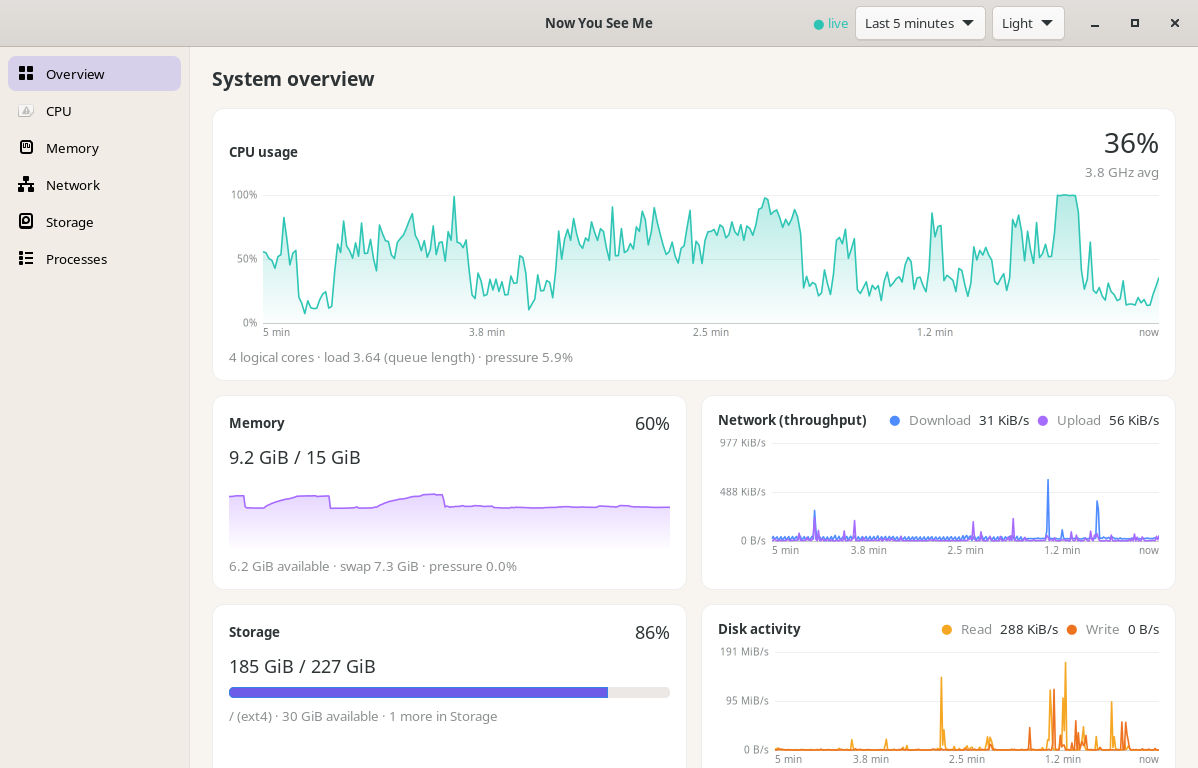
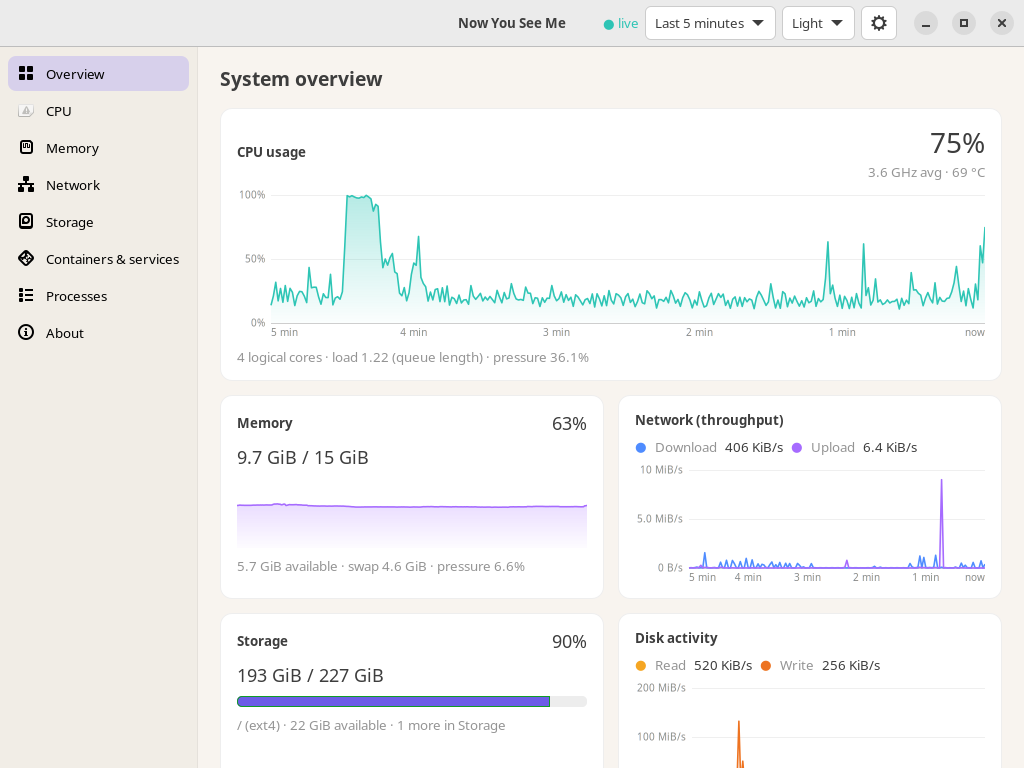
Prepare for a public repository; CI on Linux only
CI: macOS/Windows jobs removed (Linux only for now); an arm64 Linux test
job runs only once the repository is public, when those runners are
free. New release workflow: a v* tag matching the crate version builds
the tarball and .debs (arm64 too once public) and publishes a GitHub
Release with that version's CHANGELOG section. Dependabot: weekly,
grouped cargo and Actions updates; gtk4 minors and vendored ksni pinned.

Community files: SECURITY.md (private reporting through GitHub),
CONTRIBUTING.md, CODE_OF_CONDUCT.md, CHANGELOG.md, issue forms and a
pull request template. README: CI badge, Releases link, contributing
links. Repository URL in the crate metadata.

Docs: screenshots retaken from the current UI; security.md corrected
(container names do open the runtime socket when enabled; ports lookup
exists); roadmap CI status.

diff --git a/CONTRIBUTING.md b/CONTRIBUTING.md
@@ -1,0 +1,47 @@
+# Contributing
+
+Thanks for helping. Bug reports, measurements from other machines and pull
+requests are all welcome.
+
+## Before you start
+
+- For anything larger than a small fix, open an issue first so the approach
+  can be agreed before you spend time on it.
+- The product principles are in [docs/product.md](docs/product.md). The
+  most important one: a value that cannot be measured is shown with its
+  reason, never as a made-up `0`.
+
+## Build and test
+
+Rust 1.88 or newer (the desktop app needs Rust 1.92 and GTK ≥ 4.12
+development files, `libgtk-4-dev` on Debian/Ubuntu).
+
+```sh
+cargo fmt --all --check
+cargo clippy --all-targets -- -D warnings
+cargo test
+cargo clippy -p nysm-desktop --all-targets -- -D warnings   # with GTK installed
+python3 scripts/pty_smoke.py target/debug/nysm               # TUI in a real terminal
+cargo run -p nysm-tui --example screens -- 80 24             # every TUI view as text
+```
+
+CI runs the same checks on every push ([docs/testing.md](docs/testing.md)).
+
+## Pull requests
+
+- Keep each pull request to one change, with tests where the behaviour can
+  be tested (parsers, math and rendering all have test helpers).
+- Describe what changed and how you checked it. For UI changes, add a
+  screenshot (`nysm-desktop --screenshot FILE.png`, or the TUI `screens`
+  example).
+- Update the documentation in `docs/` when behaviour or options change, and
+  add a line to `CHANGELOG.md` under *Unreleased*.
+- New dependencies need a reason: the CLI must stay free of GUI and session
+  libraries (CI checks this), and binaries should stay small.
+
+## Licence
+
+Unless you explicitly state otherwise, any contribution you intentionally
+submit for inclusion in this work, as defined in the Apache-2.0 licence,
+shall be dual licensed as MIT OR Apache-2.0, without any additional terms or
+conditions.

diff --git a/CHANGELOG.md b/CHANGELOG.md
@@ -1,0 +1,32 @@
+# Changelog
+
+All notable changes are listed here. The format follows
+[Keep a Changelog](https://keepachangelog.com/en/1.1.0/) and versions follow
+[Semantic Versioning](https://semver.org/) (0.x: anything may change).
+
+## [Unreleased]
+
+## [0.1.0] - unreleased
+
+First public release.
+
+### Added
+- **Live view** of CPU (per core, frequency, temperature), memory, swap,
+  network per interface, disks (throughput, latency, busy %) and
+  filesystems, with pressure (PSI) to show when work is waiting.
+- **Who is responsible**: processes (filter, sort, tree, pin and watch,
+  live details), memory per app with PSS/USS, containers, systemd services
+  and desktop apps against their limits, optional container names, and
+  which process owns a port.
+- **Over time**: recent history in memory, a timeline cursor in the TUI,
+  recordings of the system or of one command, and comparison of runs.
+- **Alerts** with hysteresis and cooldown, and opt-in incident snapshots.
+- **Storage insight**: growth trend and time-to-full per filesystem, and a
+  bounded `disk usage` scan.
+- **Diagnostics**: `net check` (DNS and TCP connect latency),
+  `capabilities`, `doctor`.
+- **Interfaces**: CLI with `--json` everywhere, terminal UI (also over SSH
+  with `--remote`), GTK 4 desktop app, top-bar indicator with live values,
+  optional shared collector service, optional GNOME extension.
+- **Packaging**: static tarball with per-user install and uninstall, and
+  `.deb` packages.

diff --git a/README.md b/README.md
@@ -2,6 +2,8 @@
 
 # Now You See Me (`nysm`)
 
+[![ci](https://github.com/sheheemmulakkal/now-you-see-me/actions/workflows/ci.yml/badge.svg)](https://github.com/sheheemmulakkal/now-you-see-me/actions/workflows/ci.yml)
+
 A lightweight, precise resource monitor for engineers. It answers four
 questions: **what is being used now, what changed in the last few minutes,
 which process or container is responsible, and whether work is actually
@@ -44,6 +46,10 @@ Values that cannot be measured are shown with the reason, never as a fake `0`.
 
 ## Quick start
 
+Download the tarball (or the `.deb` packages) from the
+[Releases](https://github.com/sheheemmulakkal/now-you-see-me/releases) page,
+then:
+
 ```sh
 tar -xzf nysm-0.1.0-x86_64-linux.tar.gz
 nysm-0.1.0-x86_64-linux/install.sh      # per user, into ~/.local, no root
@@ -78,7 +84,10 @@ every metric as unsupported for now. See
 
 - **Users:** [user guide](docs/guide.md) · [install](docs/install.md) ·
   [configuration](docs/configuration.md) · [what the numbers mean](docs/metrics.md)
-- **Everything else:** [documentation index](docs/README.md)
+- **Everything else:** [documentation index](docs/README.md) ·
+  [changelog](CHANGELOG.md)
+- **Contributing:** [how to contribute](CONTRIBUTING.md) ·
+  [security policy](SECURITY.md) · [code of conduct](CODE_OF_CONDUCT.md)
 
 ## Licence
 

diff --git a/SECURITY.md b/SECURITY.md
@@ -1,0 +1,32 @@
+# Security policy
+
+## Reporting a vulnerability
+
+Please report security problems privately through GitHub: open the
+repository's **Security** tab and choose **Report a vulnerability**. Do not
+open a public issue for a vulnerability.
+
+Include what you found, how to reproduce it, the affected version
+(`nysm --version`) and your Linux distribution. You will get an
+acknowledgement within a week, and a fix or a plan once the problem is
+understood. Credit is given in the release notes unless you prefer not.
+
+## Supported versions
+
+Only the latest release receives fixes while the project is at 0.x.
+
+## Scope
+
+Now You See Me runs as a normal user, opens no network listeners (the
+optional collector uses a private Unix socket) and sends nothing anywhere
+unless you ask (`nysm net check`, `nysm tui --remote` over your own SSH).
+Of particular interest:
+
+- escaping of untrusted text (process names, paths, interface names) in the
+  terminal and desktop views;
+- the collector socket: permissions, peer checks, malformed frames;
+- recordings and incident files (mode 0600, size limits, parsing);
+- the opt-in container-name request to the Docker/Podman socket.
+
+What is read, stored and never sent is described in
+[docs/security.md](docs/security.md).

diff --git a/docs/security.md b/docs/security.md
@@ -1,5 +1,7 @@
 # Security and privacy
 
+To report a vulnerability, see [SECURITY.md](../SECURITY.md).
+
 See ADR 0006.
 
 ## Data collected by default
@@ -11,12 +13,15 @@ and device names, mount points and filesystem types.
 ## Not collected by default
 - Command-line arguments: only `nysm inspect --show-args`.
 - Environment variables: never.
-- Connection lists/history: not collected (ports lookup is planned, on
-  demand only).
+- Connection lists/history: not collected. `nysm ports` looks up sockets
+  for a port on demand and keeps nothing.
 
 ## Privileges
-Runs as a normal user. Nothing requests elevation, adds groups, opens
-container runtime sockets or changes system configuration. Data that needs
+Runs as a normal user. Nothing requests elevation, adds groups or changes
+system configuration. Container runtime sockets (Docker/Podman) are opened
+only when you turn on container names (`--names`, the desktop switch or
+`display.container_names`): one read-only `GET /containers/json`, because
+access to that socket is root-equivalent on most systems. Data that needs
 privileges shows `permission_denied` (for example `/proc/<pid>/io`,
 `exe`, `cwd` of other users' processes).
 

diff --git a/docs/roadmap.md b/docs/roadmap.md
@@ -14,7 +14,7 @@ Legend: ✅ done and verified · 🟡 partial · ⬜ not started
   CPU/Memory/Network/Disk views, pause, shared timeline cursor, help,
   80×24, tiny fallback, ASCII/monochrome, render cap
 - ✅ Headless build with no GUI dependencies; overhead measured
-- ⬜ CI workflow run on GitHub (file added; not yet run on a remote)
+- 🟡 CI on GitHub Actions: Linux lint, tests, MSRV, desktop and packaging; arm64 and the release workflow switch on once the repository is public
 
 ## Milestone 2: engineer workflows and portable core
 - ✅ Ports lookup (`nysm ports`: /proc/net/{tcp,udp}{,6} + fd inode map)

diff --git a/CODE_OF_CONDUCT.md b/CODE_OF_CONDUCT.md
@@ -1,0 +1,9 @@
+# Code of conduct
+
+This project follows the
+[Contributor Covenant, version 2.1](https://www.contributor-covenant.org/version/2/1/code_of_conduct/).
+In short: be respectful and constructive, assume good intent, and keep
+discussion about the work.
+
+Report unacceptable behaviour privately to the maintainer at
+shaimonsheheem@gmail.com. Reports are kept confidential.

diff --git a/docs/desktop.md b/docs/desktop.md
@@ -22,7 +22,7 @@ capacity is kept separate from per-device activity.
 
 ![Overview, dark](images/desktop-overview.png)
 ![Overview, light](images/desktop-overview-light.png)
-![Storage, light](images/desktop-storage.png)
+![Storage](images/desktop-storage.png)
 
 ## Pages
 - **Overview**: CPU, memory, network, disk with values, trends and detail

diff --git a/.github/pull_request_template.md b/.github/pull_request_template.md
@@ -1,0 +1,9 @@
+## What changed
+
+## Why
+
+## How it was checked
+<!-- Tests added or run, machines/distributions tried, screenshots for UI changes. -->
+
+- [ ] `cargo fmt --all --check`, `cargo clippy --all-targets -- -D warnings`, `cargo test`
+- [ ] Docs in `docs/` and `CHANGELOG.md` updated where behaviour changed
